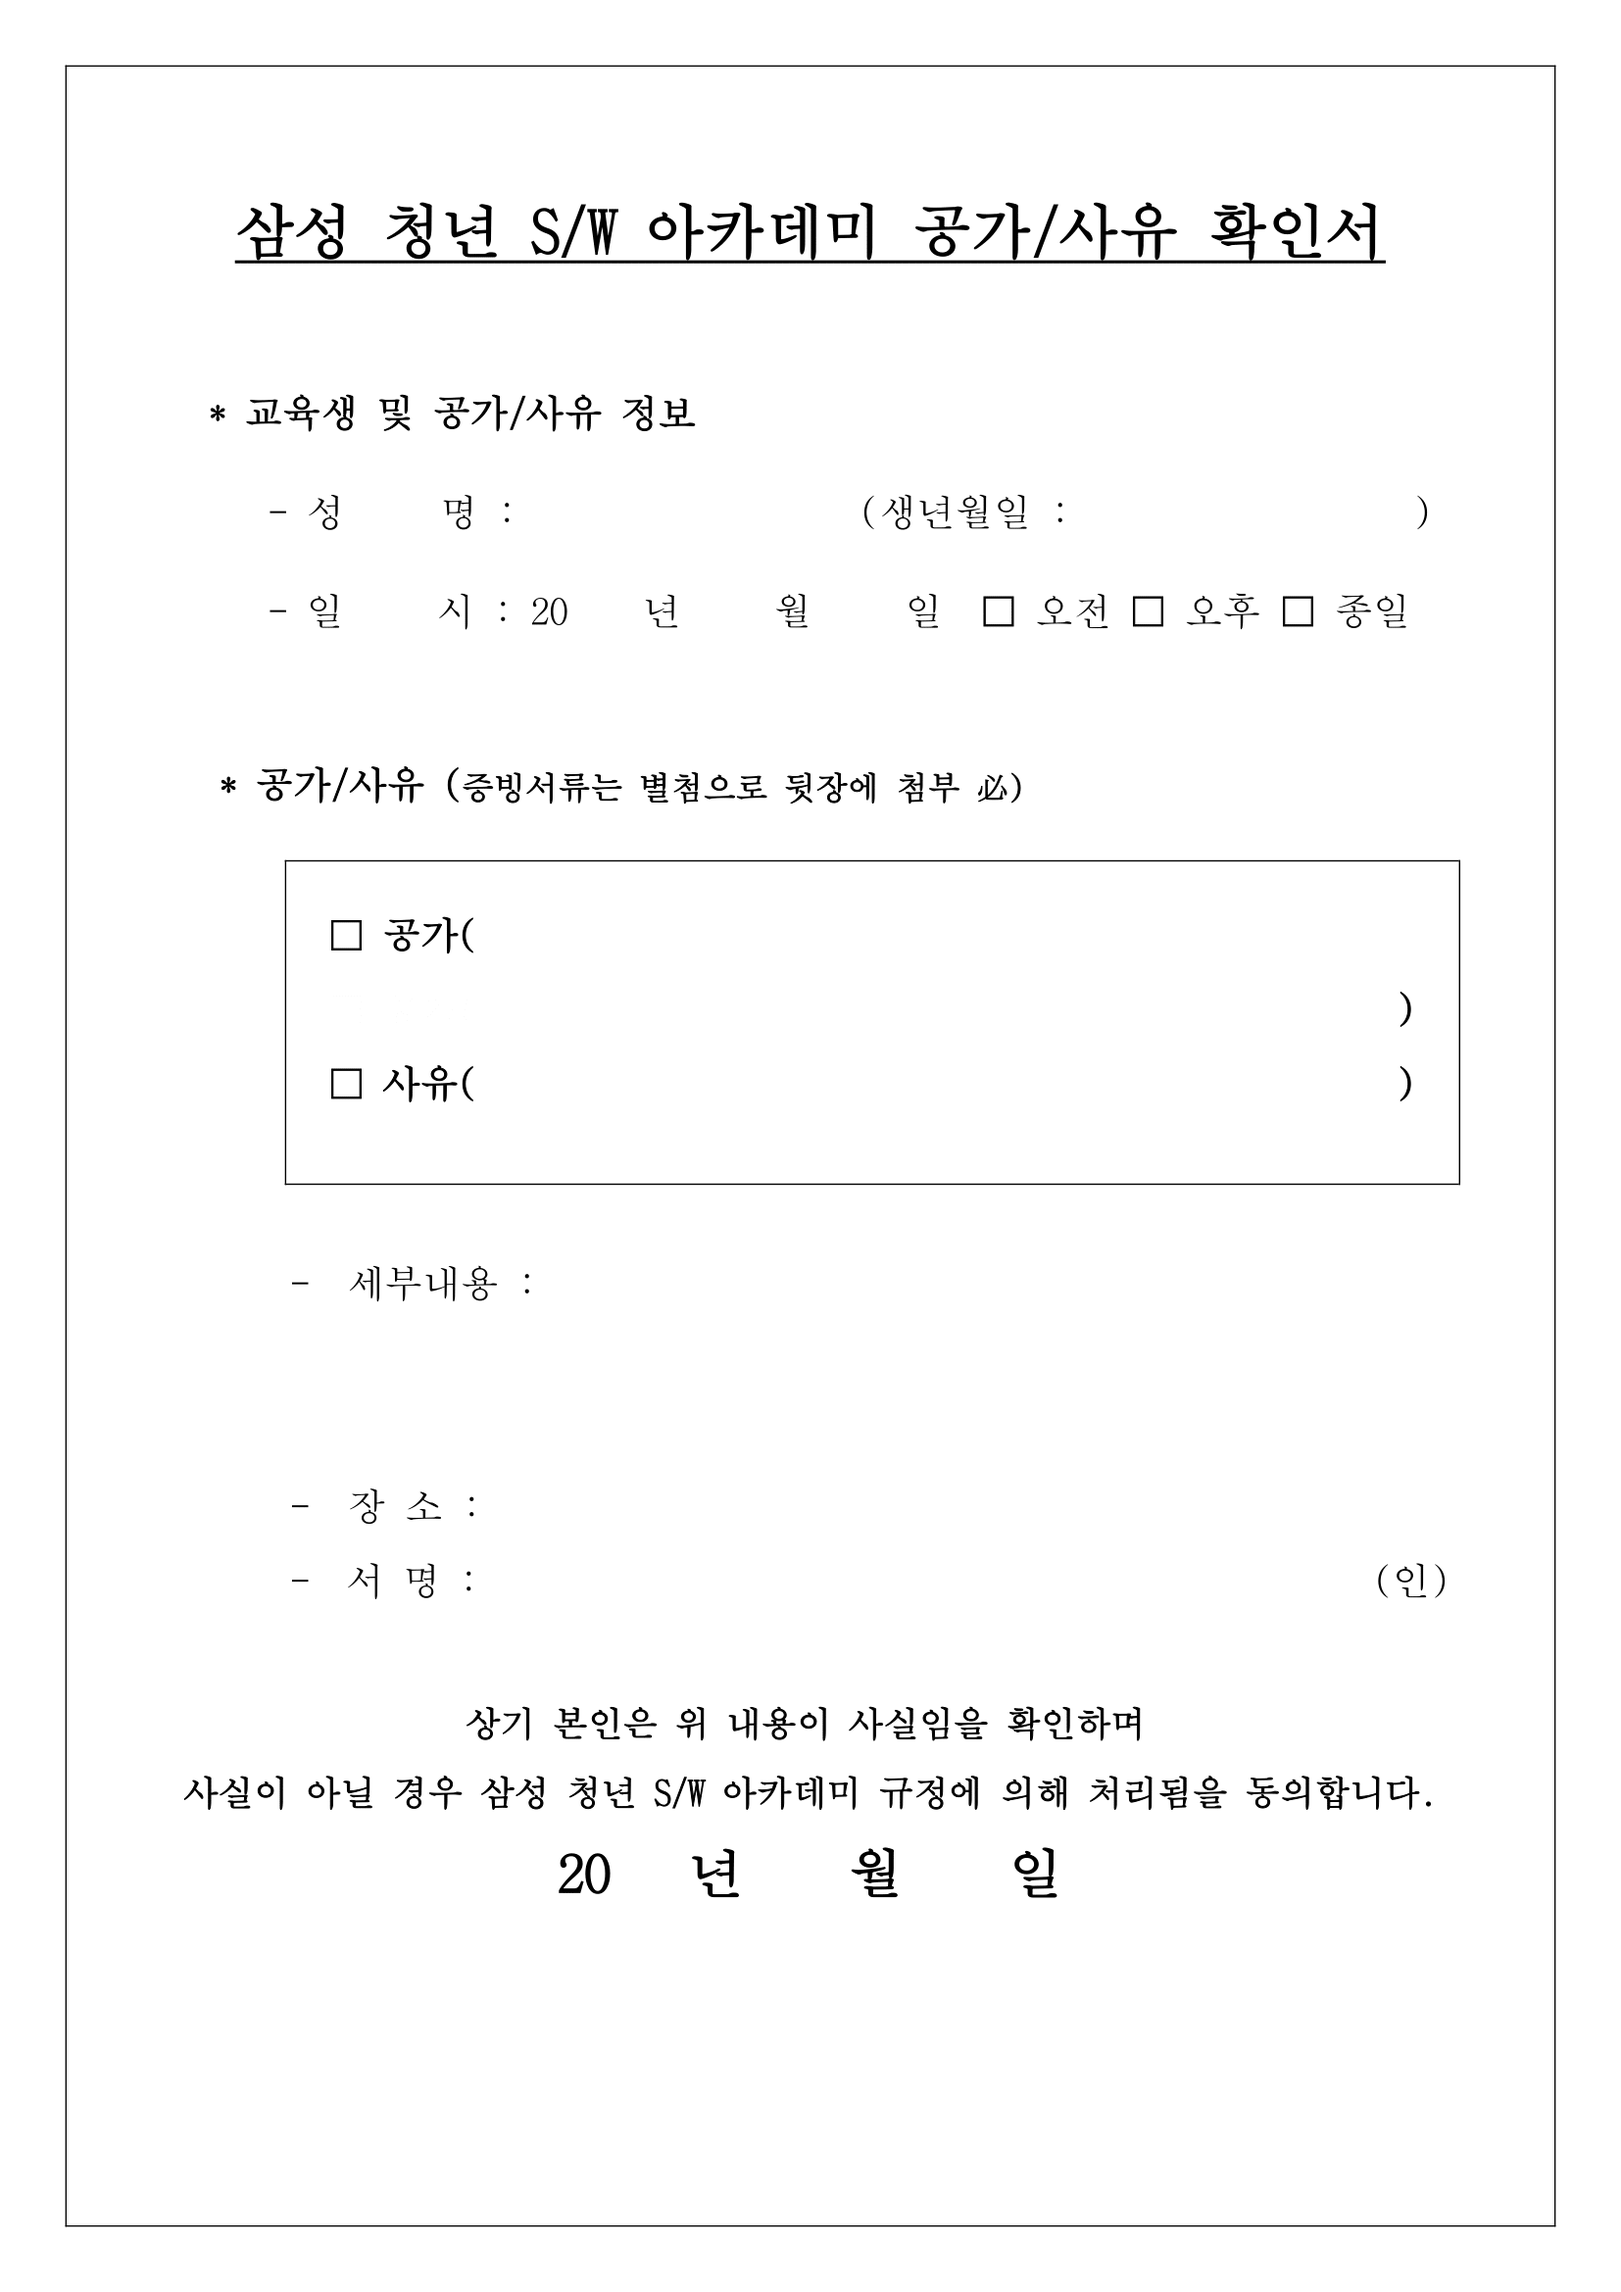
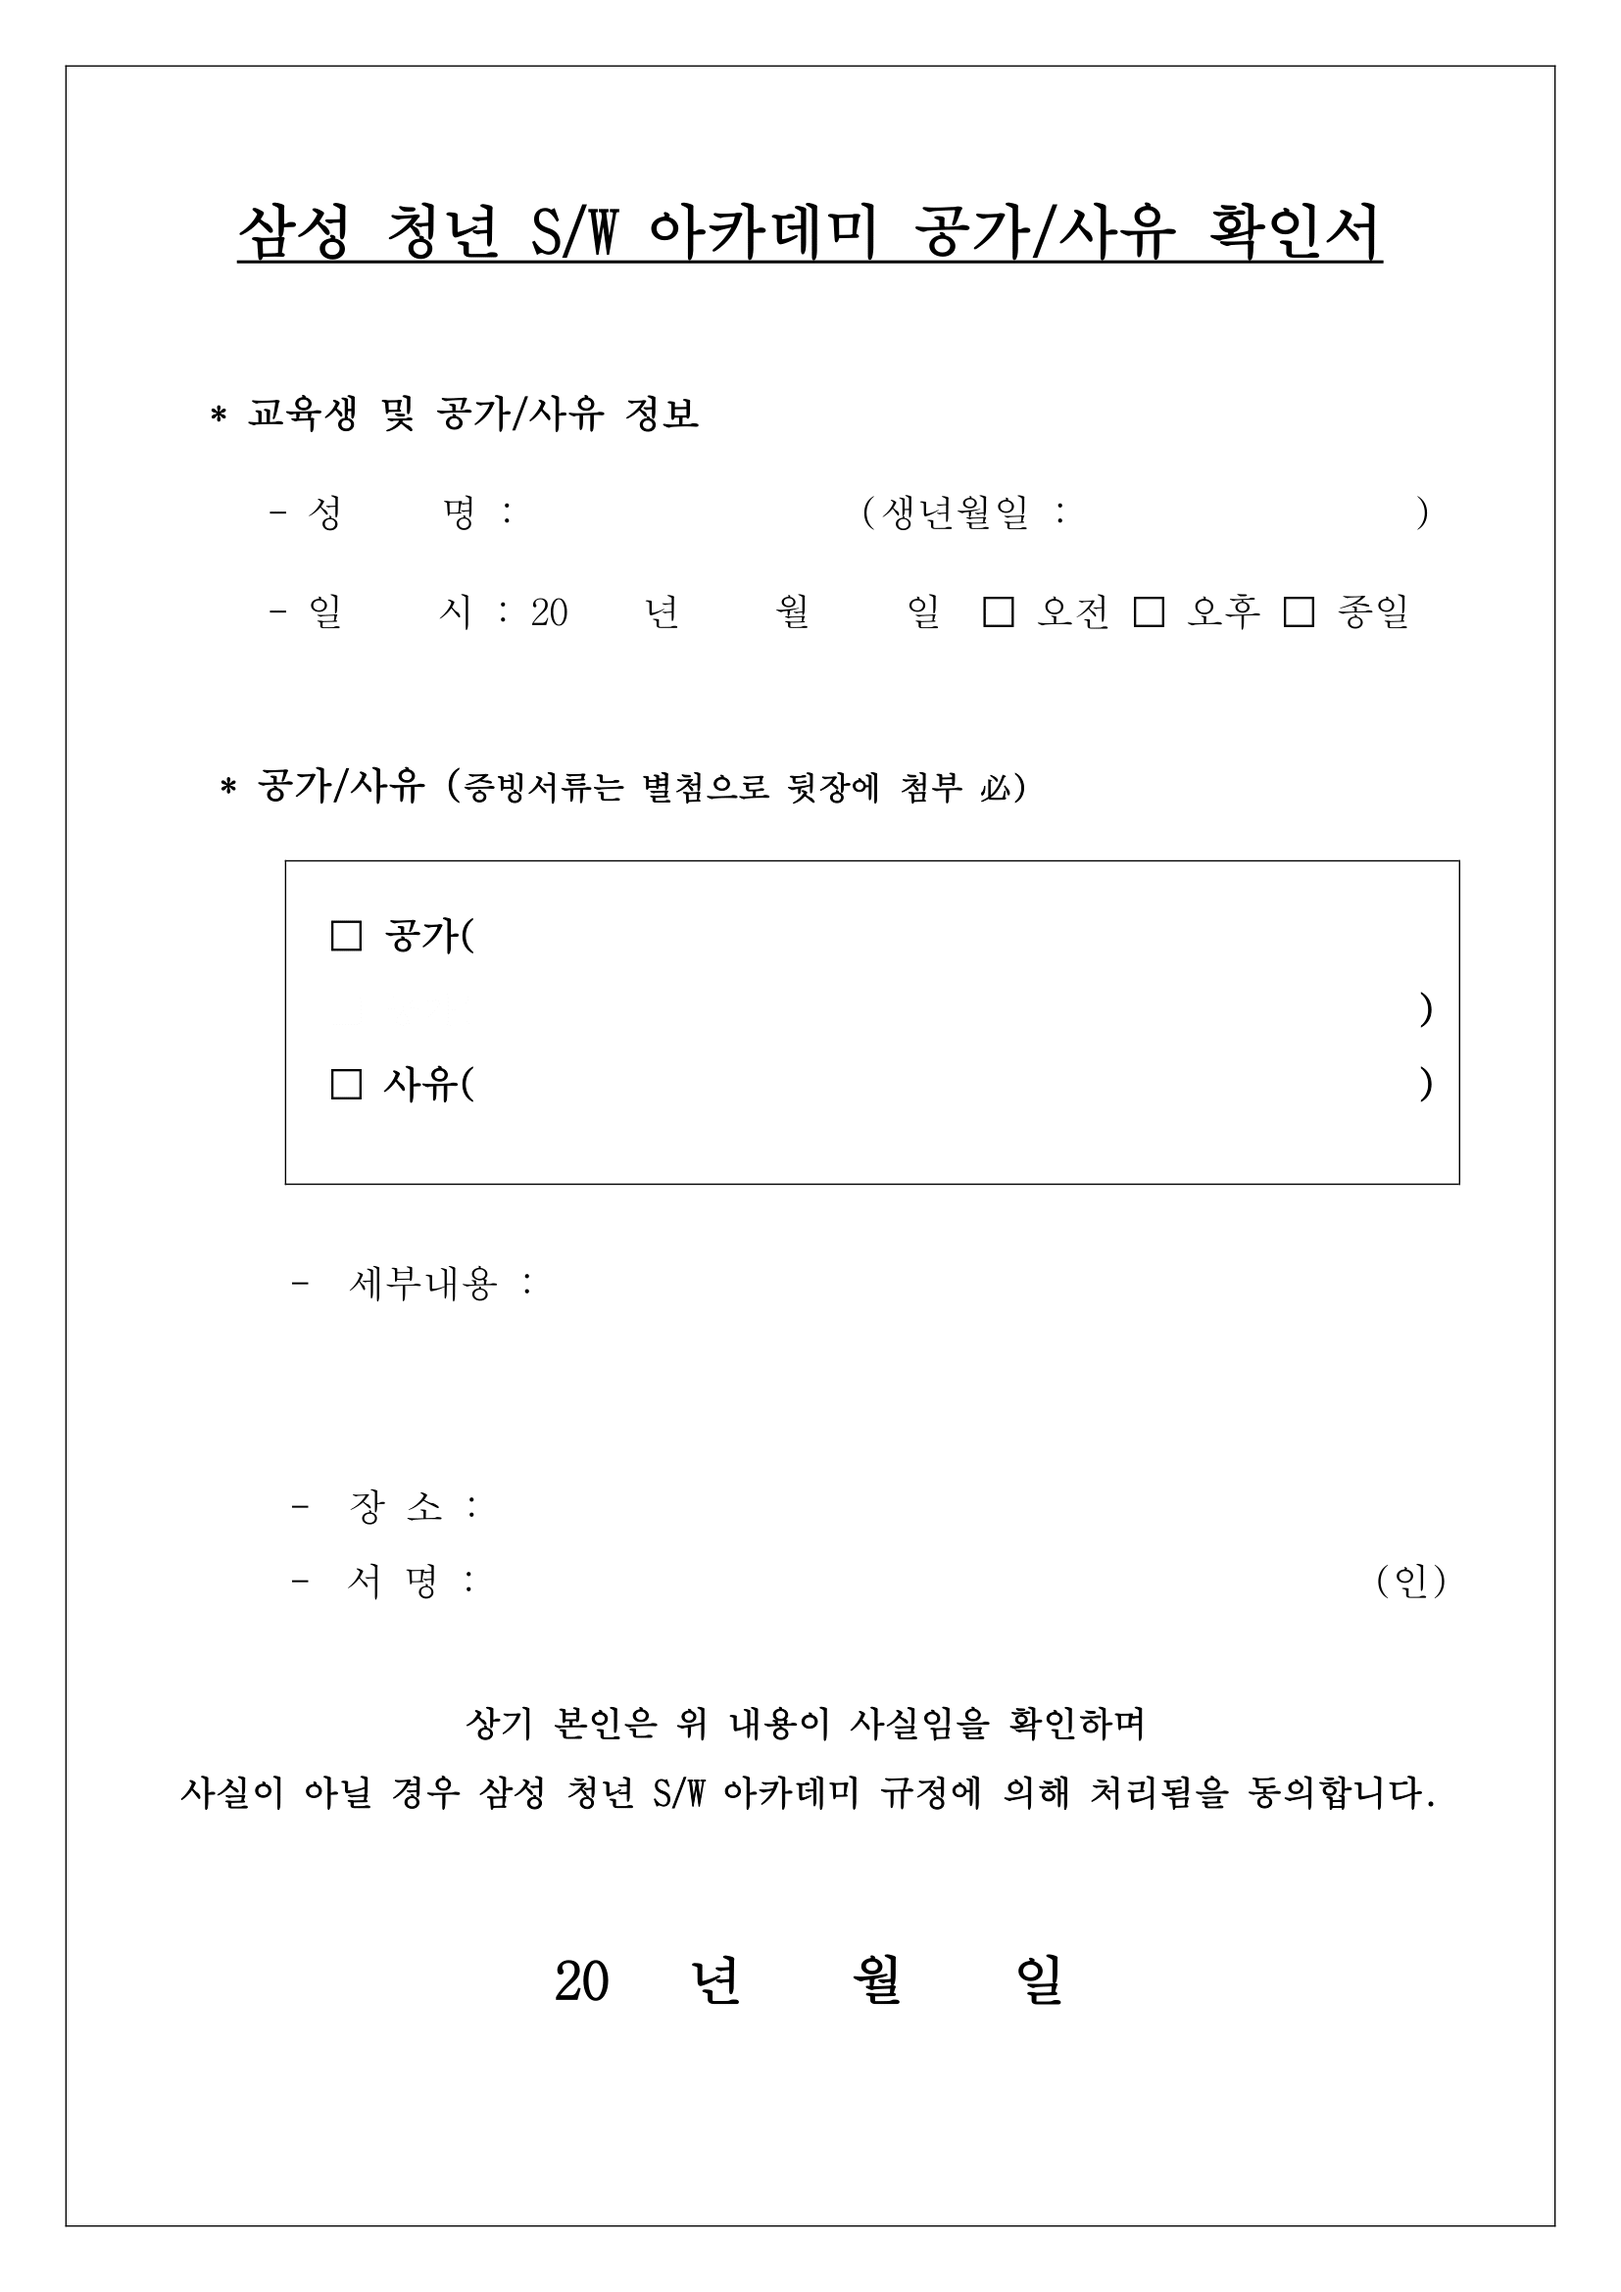
:lipstick: Preview 여러줄 완성
Preview 여러줄 완성

diff --git a/server/src/components/PreView.vue b/server/src/components/PreView.vue
@@ -36,8 +36,8 @@ export default {
         absentDay: [0.53, 0.273],
         // absentReason: [0.296, 0.415],
         // absentDetail: [0.329, 0.513],
-        // absentPlace: [0.295, 0.545],
-        // signature: [0.295, 0.576],
+        absentPlace: [0.295, 0.5665],
+        signature: [0.295, 0.5975],
       },
       reasonCoordinate: {},
       canvas2: null,
@@ -48,8 +48,9 @@ export default {
       },
       absentCategory: {
         0: [0.205, 0.401],
-        1: [0.205, 0.423],
+        1: [0.205, 0.4335],
       },
+      lineCnt: 1,
     };
   },
 
@@ -74,13 +75,12 @@ export default {
 
     const img = new Image();
     const signatureImage = new Image();
-    // this.getSrc();
-    // img.src = require("@/assets/AttendVersion1_Image/출결이미지-1.png");
+
     img.src = this.getSrc();
     signatureImage.src = this.userInput.signatureUrl;
     img.onload = () => {
-      const imageWidth = canvasFirst.width * 0.77;
-      const imageHeight = canvasFirst.height * 0.535;
+      const imageWidth = canvasFirst.width * 0.8;
+      const imageHeight = canvasFirst.height * 0.574 + 75 * this.lineCnt;
       const checkSize = canvasFirst.width * 0.018;
       const absentTimeCoord = this.absentTime[this.userInput.absentTime];
       const absentCategoryCoord = this.absentCategory[this.userInput.absentCategory];
@@ -112,7 +112,6 @@ export default {
       }
 
       for (let key in this.reasonCoordinate) {
-        console.log(key);
         contextFirst.fillText(
           this.reasonCoordinate[key][0],
           this.reasonCoordinate[key][1] * canvasFirst.width,
@@ -200,11 +199,12 @@ export default {
       let reason = this.userInput.absentReason.split("\n");
       let isReasonEnter = reason.length > 1 ? true : false;
 
-      let sp = 26;
+      let sp = 23;
 
       let reasonX = 0.296;
-      let reasonY = category == 0 ? 0.415 : 0.425;
+      let reasonY = category == 0 ? 0.415 : 0.447;
       let addY = 0.031;
+      let blankY = 0.002;
 
       if (isReasonEnter) {
         //공가/사유에 enter가 있으면
@@ -213,9 +213,19 @@ export default {
 
         let detailLine = this.getDetailLine(addY);
 
-        this.fontStyleTwoCoordinate.currentYear[1] += 0.002 * detailLine;
-        this.fontStyleTwoCoordinate.currentMonth[1] += 0.002 * detailLine;
-        this.fontStyleTwoCoordinate.currentDay[1] += 0.002 * detailLine;
+        this.lineCnt = detailLine;
+        this.fontStyleOneCoordinate.absentPlace[1] += (addY + blankY) * detailLine;
+        this.fontStyleOneCoordinate.signature[1] += (addY + blankY) * detailLine;
+
+        if (detailLine == 3) {
+          this.fontStyleTwoCoordinate.currentYear[1] += blankY * detailLine + addY;
+          this.fontStyleTwoCoordinate.currentMonth[1] += blankY * detailLine + addY;
+          this.fontStyleTwoCoordinate.currentDay[1] += blankY * detailLine + addY;
+        } else {
+          this.fontStyleTwoCoordinate.currentYear[1] += blankY * detailLine;
+          this.fontStyleTwoCoordinate.currentMonth[1] += blankY * detailLine;
+          this.fontStyleTwoCoordinate.currentDay[1] += blankY * detailLine;
+        }
 
         if (category == 0) {
           return require(`@/assets/AttendVersion1_Image/공가-2-${detailLine}.png`);
@@ -224,7 +234,7 @@ export default {
         }
       } else {
         //공가/사유에 enter가 없으면
-        if (reason[0].length >= sp) {
+        if (reason[0].length > sp) {
           //2줄
           this.reasonCoordinate.reason1 = [reason[0].substring(0, sp), reasonX, reasonY];
           this.reasonCoordinate.reason2 = [
@@ -234,6 +244,14 @@ export default {
           ];
 
           let detailLine = this.getDetailLine(addY);
+
+          this.lineCnt = detailLine;
+          this.fontStyleOneCoordinate.absentPlace[1] += (addY + blankY) * detailLine;
+          this.fontStyleOneCoordinate.signature[1] += (addY + blankY) * detailLine;
+
+          this.fontStyleTwoCoordinate.currentYear[1] += blankY * (detailLine + 1);
+          this.fontStyleTwoCoordinate.currentMonth[1] += blankY * (detailLine + 1);
+          this.fontStyleTwoCoordinate.currentDay[1] += blankY * (detailLine + 1);
 
           if (category == 0) {
             return require(`@/assets/AttendVersion1_Image/공가-2-${detailLine}.png`);
@@ -246,9 +264,13 @@ export default {
 
           let detailLine = this.getDetailLine(0);
 
-          this.fontStyleTwoCoordinate.currentYear[1] += 0.002 * (detailLine - 1);
-          this.fontStyleTwoCoordinate.currentMonth[1] += 0.002 * (detailLine - 1);
-          this.fontStyleTwoCoordinate.currentDay[1] += 0.002 * (detailLine - 1);
+          this.lineCnt = detailLine - 1;
+          this.fontStyleOneCoordinate.absentPlace[1] += (addY + blankY) * (detailLine - 1);
+          this.fontStyleOneCoordinate.signature[1] += (addY + blankY) * (detailLine - 1);
+
+          this.fontStyleTwoCoordinate.currentYear[1] += blankY * (detailLine - 1);
+          this.fontStyleTwoCoordinate.currentMonth[1] += blankY * (detailLine - 1);
+          this.fontStyleTwoCoordinate.currentDay[1] += blankY * (detailLine - 1);
 
           return require(`@/assets/AttendVersion1_Image/세부-${detailLine}.png`);
         }
@@ -259,7 +281,7 @@ export default {
       let detailEnterSize = detail.length;
       let isDetailEnter = detailEnterSize > 1 ? true : false;
 
-      let sp = 26;
+      let sp = 23;
 
       let detailX = 0.329;
       let detailY = 0.535 + addLine;
@@ -267,7 +289,7 @@ export default {
 
       if (isDetailEnter) {
         //세부내용에 enter가 있으면
-        if (detail[0].length >= sp) {
+        if (detail[0].length > sp) {
           //첫째줄에 enter가 없이 개행이 있으면
           this.reasonCoordinate.detail1 = [detail[0].substring(0, sp), detailX, detailY];
           this.reasonCoordinate.detail2 = [
@@ -275,10 +297,10 @@ export default {
             detailX,
             detailY + addY,
           ];
-          this.reasonCoordinate.detail3 = [detail[1], detailX, 0.391];
+          this.reasonCoordinate.detail3 = [detail[1], detailX, detailY + 2 * addY];
 
           return 3;
-        } else if (detail[1].length >= sp) {
+        } else if (detail[1].length > sp) {
           //둘째줄에 enter가 없이 개행이 있으면
           this.reasonCoordinate.detail1 = [detail[0], detailX, detailY];
           this.reasonCoordinate.detail2 = [detail[1].substring(0, sp), detailX, detailY + addY];
@@ -299,16 +321,18 @@ export default {
         }
       } else {
         //세부내용에 enter가 없으면
-        if (detail[0].length > 52) {
+        if (detail[0].length > 46) {
           //3줄
           this.reasonCoordinate.detail1 = [detail[0].substring(0, sp), detailX, detailY];
-          this.reasonCoordinate.detail2 = [detail[0].substring(sp, 52), detailX, detailY + addY];
+          this.reasonCoordinate.detail2 = [detail[0].substring(sp, 46), detailX, detailY + addY];
           this.reasonCoordinate.detail3 = [
-            detail[0].substring(52, detail[0].length, detailX, detailY + 2 * addY),
+            detail[0].substring(46, detail[0].length),
+            detailX,
+            detailY + 2 * addY,
           ];
 
           return 3;
-        } else if (detail[0].length >= sp) {
+        } else if (detail[0].length > sp) {
           //2줄
           this.reasonCoordinate.detail1 = [detail[0].substring(0, sp), detailX, detailY];
           this.reasonCoordinate.detail2 = [
